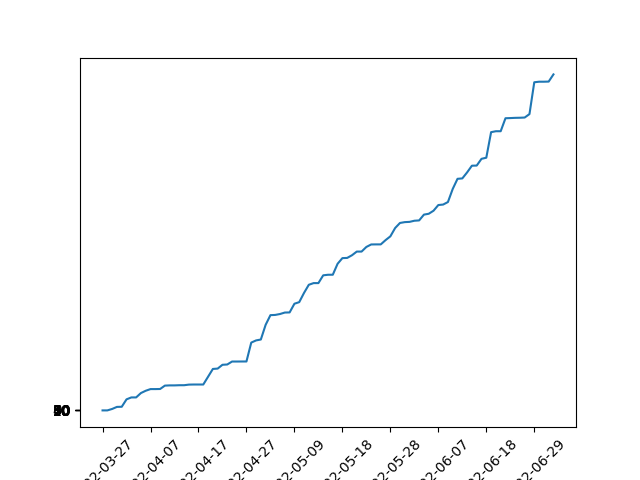
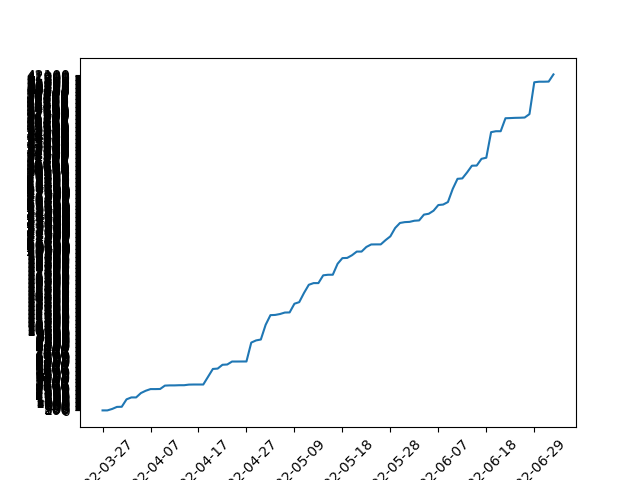
plot objects

Changed region(s): [[0.0312, 0.125, 0.125, 0.875]]

diff --git a/report.py b/report.py
@@ -292,7 +292,7 @@ def get_draw_objects(file1name, file2name):
   fig,ax = plt.subplots()
   plt.plot(dates, sizes)
   ax.set_xticks(np.arange(0, len(dates)+1, 10))
-  ax.set_yticks(np.arange(0, len(sizes), 10))
+  ax.set_yticks(np.arange(0, max(sizes), 100))
   plt.xticks(rotation=45)
   plt.savefig(file1name)
   plt.close()
@@ -302,7 +302,7 @@ def get_draw_objects(file1name, file2name):
   fig,ax = plt.subplots()
   plt.plot(dates, num_objects)
   ax.set_xticks(np.arange(0, len(dates)+1, 10))
-  ax.set_yticks(np.arange(0, len(num_objects), 10))
+  ax.set_yticks(np.arange(0, max(num_objects), 100))
   plt.xticks(rotation=45)
   plt.savefig(file2name)
   plt.close()
